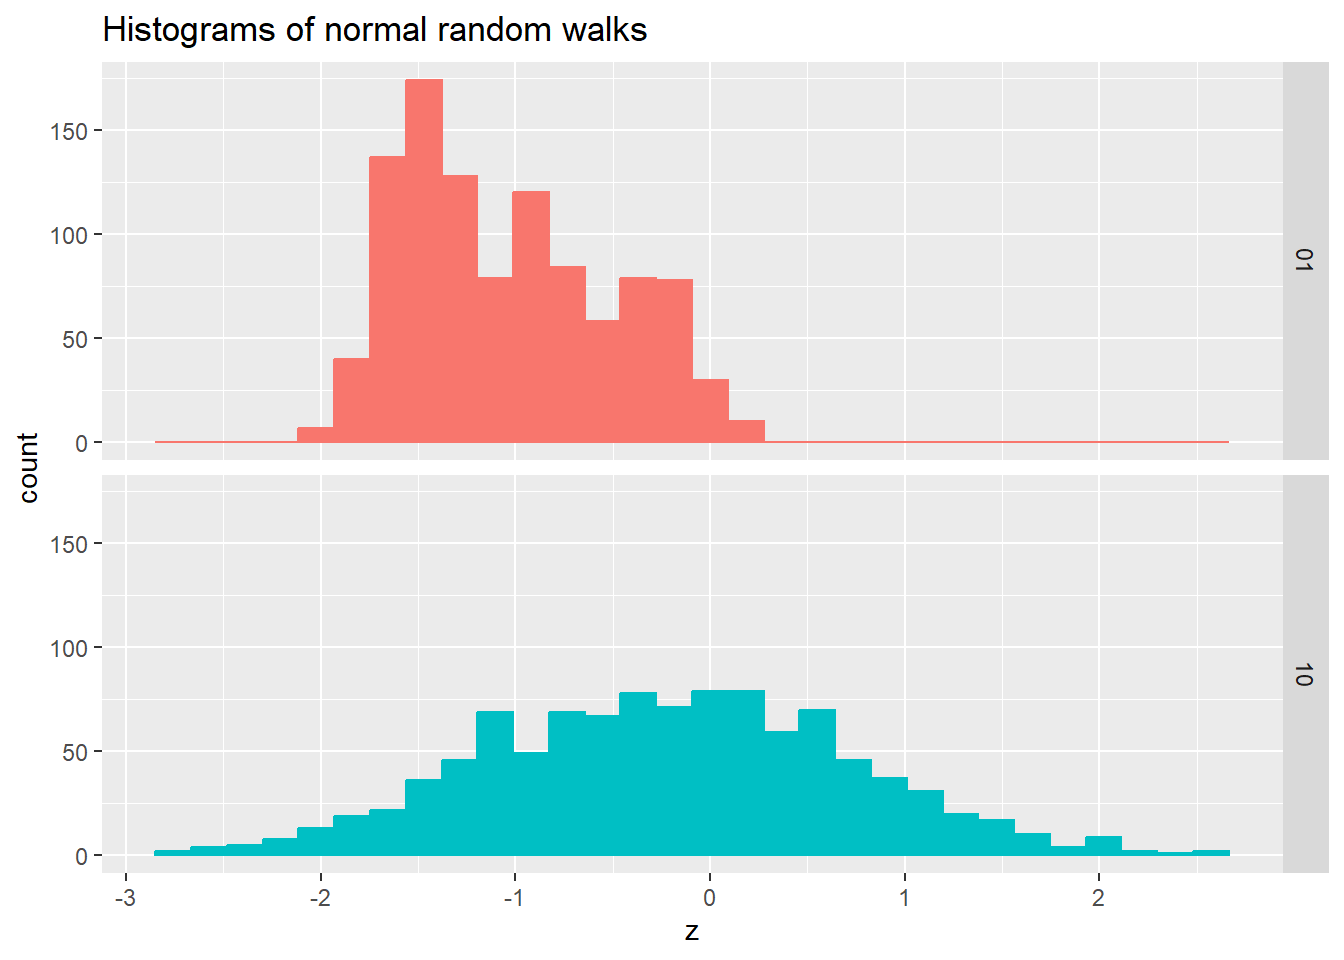
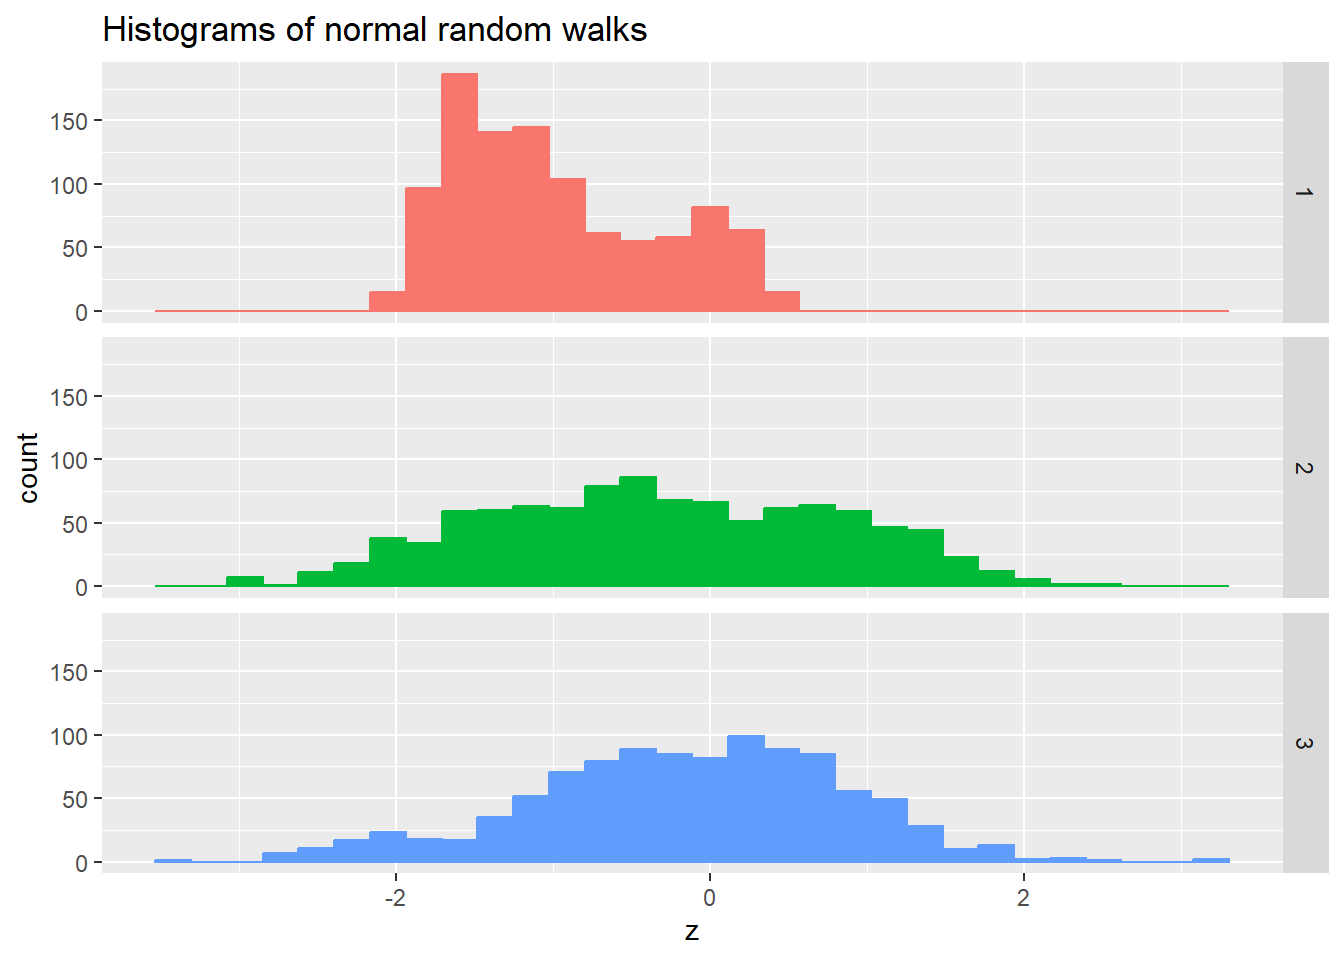
markdown > s3b_stat_sim.qmd > Metropolis-Hastings > Example: Previously delta was set to 0.1 and 1.0, respectively.  Now the delta values have been set to 1/8, 1/2, and 2 in order to better illustrate the effect of jump-size.

diff --git a/markdown/s3b_stat_sim/s3b_stat_sim.html b/markdown/s3b_stat_sim/s3b_stat_sim.html
@@ -143,7 +143,7 @@ window.Quarto = {
     <div>
     <div class="quarto-title-meta-heading">Published</div>
     <div class="quarto-title-meta-contents">
-      <p class="date">05:56 Mon 21-Jul-2025</p>
+      <p class="date">16:56 Mon 21-Jul-2025</p>
     </div>
   </div>
   
@@ -586,7 +586,7 @@ Figure&nbsp;1: Monte Carlo estimation of area
   \alpha(y \; | \; x) &amp;= \max \left \{1, \frac{ \phi(y) }{ \phi(x) } \right \}
 \end{align}
 \tag{20}\]</span></span></p>
-<p>Here are two simulations, each starting at <span class="math inline">\(X(0) = 0\)</span>, but with <span class="math inline">\(\delta \in \{ 0.1, 1.0 \}\)</span>, respectively. Recall that <span class="math inline">\(| X(t+1) - X(t) | \le \delta\)</span>. Thus the first trajectory is much smoother than the second.</p>
+<p>Here are three simulations, each starting at <span class="math inline">\(X(0) = 0\)</span>, but with <span class="math inline">\(\delta \in \{ \frac{1}{8}, \frac{1}{2}, 2 \}\)</span>, respectively. Recall that <span class="math inline">\(| X(t+1) - X(t) | \le \delta\)</span>. Thus the trajectories are decreasingly smooth.</p>
 <div class="cell">
 <div class="cell-output-display">
 <div id="fig-nrw-trajectory" class="quarto-float quarto-figure quarto-figure-center anchored">
@@ -595,13 +595,13 @@ Figure&nbsp;1: Monte Carlo estimation of area
 <img src="s3b_stat_sim_files/figure-html/fig-nrw-trajectory-1.png" class="img-fluid figure-img" width="672">
 </div>
 <figcaption class="quarto-float-caption-bottom quarto-float-caption quarto-float-fig" id="fig-nrw-trajectory-caption-0ceaefa1-69ba-4598-a22c-09a6ac19f8ca">
-Figure&nbsp;2: X(t) with small and large jumps
+Figure&nbsp;2: X(t) with small to large jumps
 </figcaption>
 </figure>
 </div>
 </div>
 </div>
-<p>Next we see histograms of the generated values. For the series with <span class="math inline">\(\delta = 0.1\)</span>, more time would have been needed to traverse a greater portion of the normal distribution values.</p>
+<p>Next we see histograms of the generated values. For the first and smoothest series more time would have been needed to traverse a greater portion of the normal distribution values.</p>
 <div class="cell">
 <div class="cell-output-display">
 <div id="fig-nrw-hist" class="quarto-float quarto-figure quarto-figure-center anchored">
@@ -610,13 +610,13 @@ Figure&nbsp;2: X(t) with small and large jumps
 <img src="s3b_stat_sim_files/figure-html/fig-nrw-hist-1.png" class="img-fluid figure-img" width="672">
 </div>
 <figcaption class="quarto-float-caption-bottom quarto-float-caption quarto-float-fig" id="fig-nrw-hist-caption-0ceaefa1-69ba-4598-a22c-09a6ac19f8ca">
-Figure&nbsp;3: Histograms of X(t) with small and large jumps
+Figure&nbsp;3: Histograms of X(t) with small to large jumps
 </figcaption>
 </figure>
 </div>
 </div>
 </div>
-<p>Comparing the two sets of summary statistics below, we see that the first random walk was confined to a narrower range of values centered at <code>-1</code>.</p>
+<p>Comparing the sets of summary statistics below, we see that the first random walk was confined to a narrower range of values. The final column is the effective sample size estimated by <code>R</code> function <code>astsa::ESS()</code>.</p>
 <div id="tbl-nrw-smy" class="cell quarto-float quarto-figure quarto-figure-center anchored">
 <figure class="quarto-float quarto-float-tbl figure">
 <figcaption class="quarto-float-caption-top quarto-float-caption quarto-float-tbl" id="tbl-nrw-smy-caption-0ceaefa1-69ba-4598-a22c-09a6ac19f8ca">
@@ -624,11 +624,12 @@ Table&nbsp;3: Summary statistics: normal random walks
 </figcaption>
 <div aria-describedby="tbl-nrw-smy-caption-0ceaefa1-69ba-4598-a22c-09a6ac19f8ca">
 <div class="cell-output cell-output-stdout">
-<pre><code># A tibble: 2 × 7
-  delta   min    q_1    avg    q_3   max    sd
-  &lt;chr&gt; &lt;dbl&gt;  &lt;dbl&gt;  &lt;dbl&gt;  &lt;dbl&gt; &lt;dbl&gt; &lt;dbl&gt;
-1 01    -2.01 -1.48  -1.04  -0.650 0.248 0.527
-2 10    -2.79 -0.879 -0.216  0.446 2.54  0.928</code></pre>
+<pre><code># A tibble: 3 × 9
+  d_idx   min    q_1    avg    q_3   max    sd     n    ess
+  &lt;chr&gt; &lt;dbl&gt;  &lt;dbl&gt;  &lt;dbl&gt;  &lt;dbl&gt; &lt;dbl&gt; &lt;dbl&gt; &lt;int&gt;  &lt;dbl&gt;
+1 1     -2.07 -1.54  -0.995 -0.505 0.525 0.650  1024   4.07
+2 2     -3.06 -1.12  -0.303  0.601 2.53  1.10   1024  15.6 
+3 3     -3.37 -0.773 -0.151  0.555 3.23  0.985  1024 212.  </code></pre>
 </div>
 </div>
 </figure>
